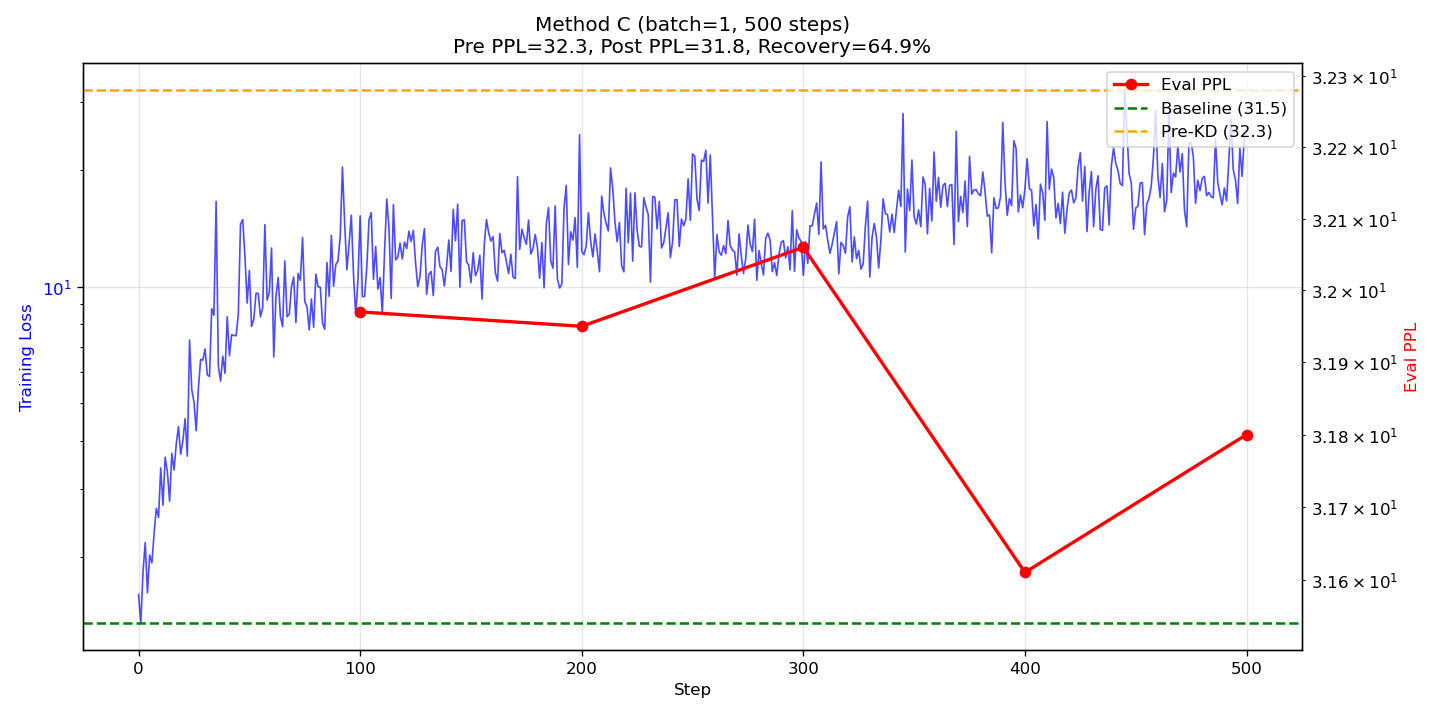
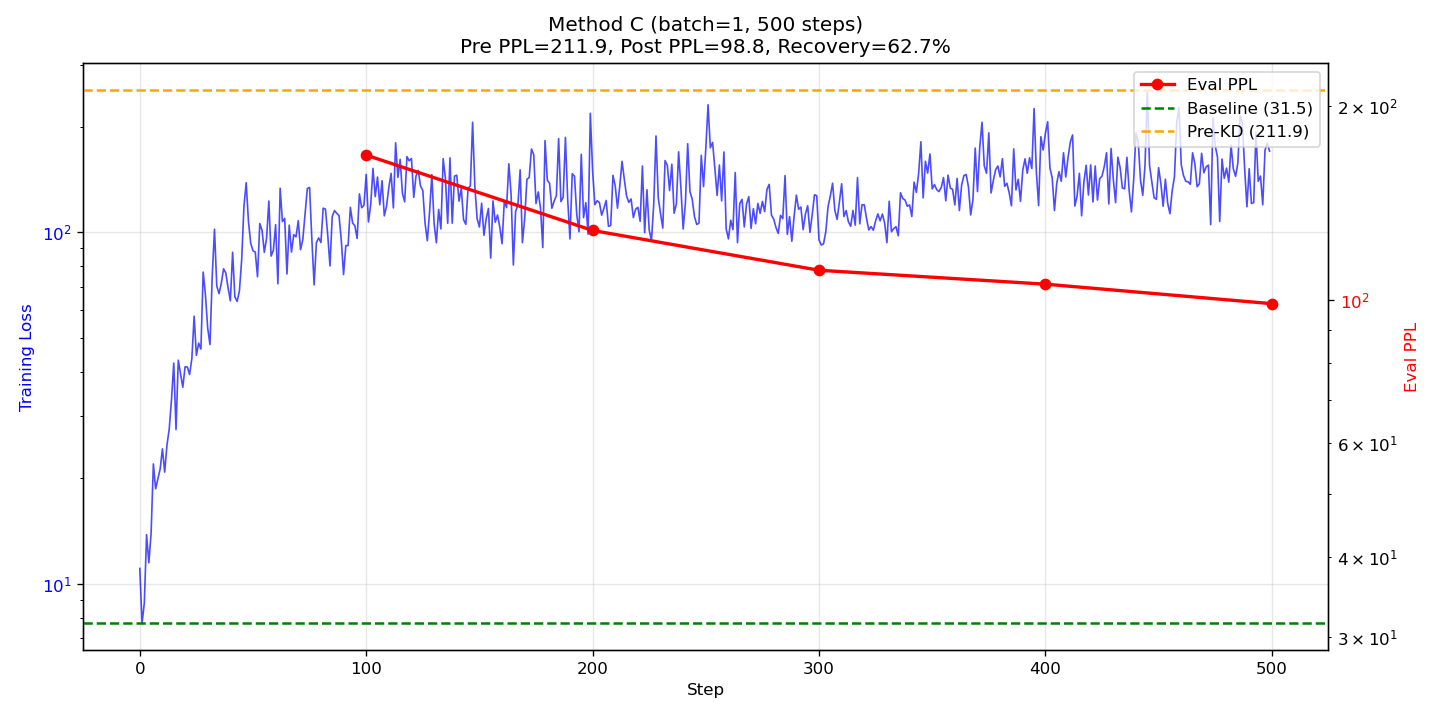
chore(results): record aegis_v5 kd run results

diff --git a/results/kd_runs/aegis_v5/20260930_220841_bs1_seq128_lr5e-06_noclr_C/README.md b/results/kd_runs/aegis_v5/20260930_220841_bs1_seq128_lr5e-06_noclr_C/README.md
@@ -1,0 +1,28 @@
+# KD Run: aegis_v5
+
+**Date:** 2026-09-30 22:17:19
+**Module:** `aegis_v5`
+**Methods:** C
+**Train scope:** `mamba`
+
+## Configuration
+
+- Batch size: 1
+- Grad accumulation: 1 (effective batch = 1)
+- Sequence length: 128
+- Recovery steps: 500
+- Learning rate: 5.00e-06
+- KL temperature: 2.0
+- LR schedule: constant (no cosine)
+- Cache max texts: 500
+
+## Results
+
+### Method C
+
+- Pre-KD PPL: 211.86
+- Post-KD PPL: 98.77
+- Recovery: 62.72%
+- Post/Baseline ratio: 3.132x
+- Step time: 781 ms
+- Peak VRAM: 1226 MB
